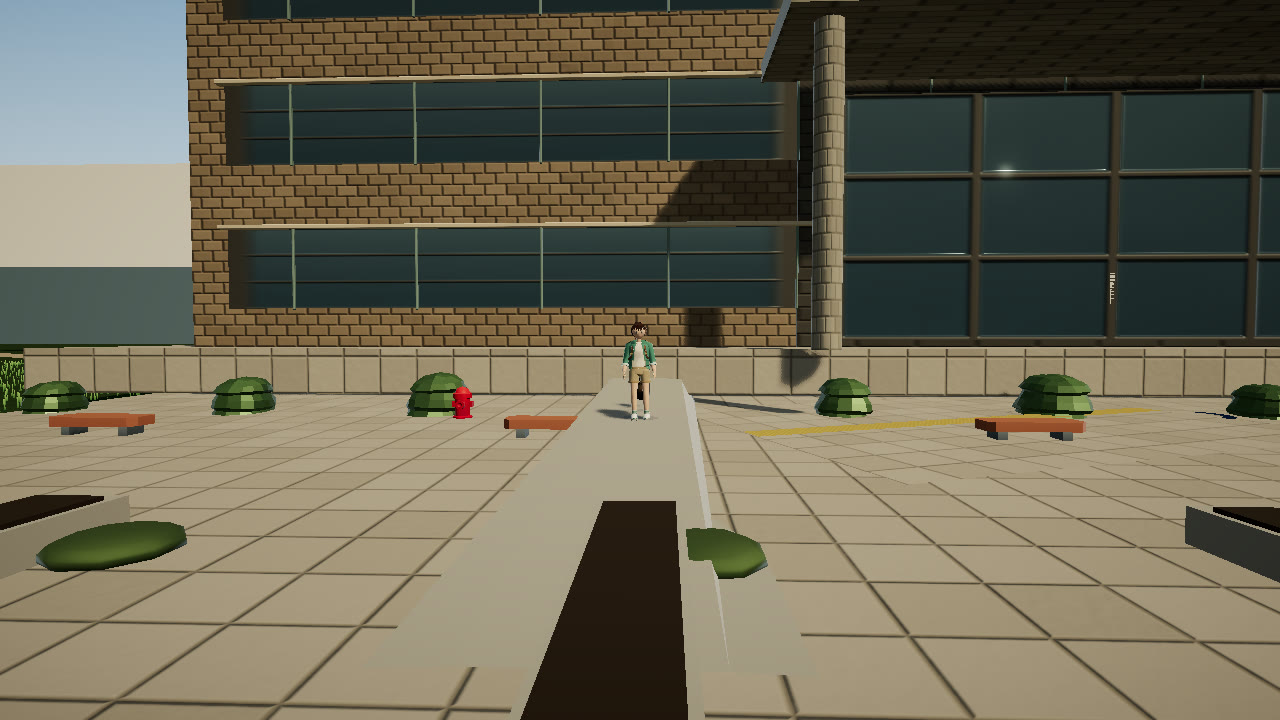
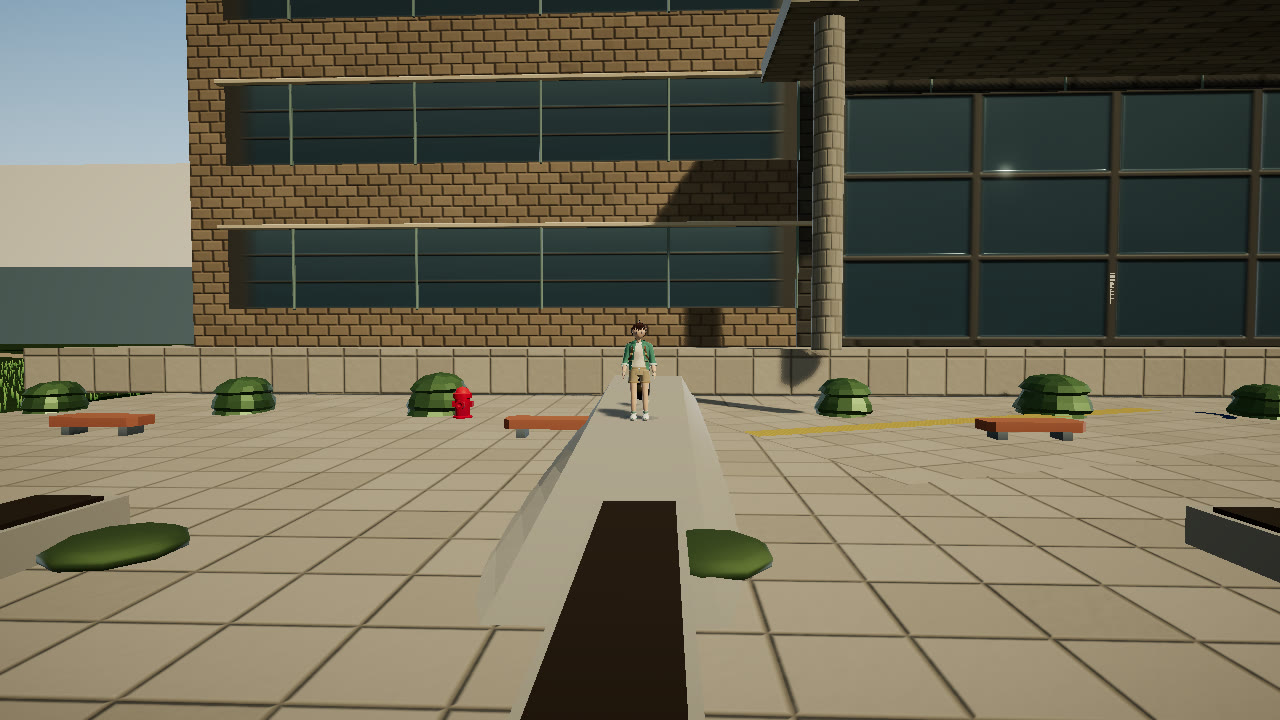
Build the library ramp on the same surface the player walks.
Each vertex uses the plaza elevation at that point plus the ramp lift, so the deck ends and the skirt midpoints no longer float off the mesh.

diff --git a/src/game/world-data/library-ramp.ts b/src/game/world-data/library-ramp.ts
@@ -1,4 +1,4 @@
-import { AXIS } from "./axis.ts";
+import { sampleGroundElevation } from "./elevation.ts";
 import { LIBRARY } from "./landmarks.ts";
 
 /**
@@ -31,29 +31,51 @@ export function libraryRampLift(x: number, z: number): number {
 
 type Vec3 = [number, number, number];
 
-/** Local triangles. +Z is the low south end, -Z is the high north end. */
+/** World-space samples. Each vertex sits on terrainHeight. */
+export function libraryRampSamples(): Vec3[][] {
+  const { x, z, length, width, skirt } = LIBRARY_RAMP;
+  const halfL = length / 2;
+  const halfW = width / 2;
+  const xs = [x - halfW - skirt, x - halfW - skirt / 2, x - halfW, x, x + halfW, x + halfW + skirt / 2, x + halfW + skirt];
+  const zs: number[] = [];
+  for (let dz = -halfL; dz <= halfL + 1e-6; dz += 1) zs.push(z + dz);
+  return zs.map((wz) =>
+    xs.map((wx): Vec3 => [wx, sampleGroundElevation(wx, wz) + libraryRampLift(wx, wz), wz]),
+  );
+}
+
+/** Triangles of the same surface the player walks. Normals point up. */
 export function libraryRampTriangles(): Vec3[][] {
-  const { width, length, rise, skirt, lip } = LIBRARY_RAMP;
-  const hw = width / 2;
-  const hl = length / 2;
-  const sw: Vec3 = [-hw, lip, hl];
-  const se: Vec3 = [hw, lip, hl];
-  const nw: Vec3 = [-hw, rise, -hl];
-  const ne: Vec3 = [hw, rise, -hl];
-  const osw: Vec3 = [-hw - skirt, 0, hl];
-  const ose: Vec3 = [hw + skirt, 0, hl];
-  const onw: Vec3 = [-hw - skirt, 0, -hl];
-  const one: Vec3 = [hw + skirt, 0, -hl];
-  const floorW: Vec3 = [-hw, 0, -hl];
-  const floorE: Vec3 = [hw, 0, -hl];
-  return [
-    [sw, se, ne],
-    [sw, ne, nw],
-    [osw, sw, nw],
-    [osw, nw, onw],
-    [se, ose, one],
-    [se, one, ne],
-    [nw, ne, floorE],
-    [nw, floorE, floorW],
-  ];
+  const rows = libraryRampSamples();
+  const triangles: Vec3[][] = [];
+  for (let j = 0; j < rows.length - 1; j++) {
+    for (let i = 0; i < rows[j].length - 1; i++) {
+      const p00 = rows[j][i];
+      const p10 = rows[j][i + 1];
+      const p01 = rows[j + 1][i];
+      const p11 = rows[j + 1][i + 1];
+      triangles.push([p00, p01, p11], [p00, p11, p10]);
+    }
+  }
+  return triangles;
+}
+
+/** Height of the rendered triangle that covers this point, if one does. */
+export function libraryRampMeshHeight(x: number, z: number): number | null {
+  for (const [a, b, c] of libraryRampTriangles()) {
+    const v0x = b[0] - a[0];
+    const v0z = b[2] - a[2];
+    const v1x = c[0] - a[0];
+    const v1z = c[2] - a[2];
+    const den = v0x * v1z - v1x * v0z;
+    if (Math.abs(den) < 1e-8) continue;
+    const v2x = x - a[0];
+    const v2z = z - a[2];
+    const bv = (v2x * v1z - v1x * v2z) / den;
+    const bw = (v0x * v2z - v2x * v0z) / den;
+    const bu = 1 - bv - bw;
+    if (bu < -1e-4 || bv < -1e-4 || bw < -1e-4) continue;
+    return bu * a[1] + bv * b[1] + bw * c[1];
+  }
+  return null;
 }

diff --git a/src/game/world/Props.tsx b/src/game/world/Props.tsx
@@ -2,7 +2,7 @@ import { useEffect, useLayoutEffect, useMemo, useRef, type JSX } from "react";
 import * as THREE from "three";
 import { quality } from "../quality";
 import { sampleGroundElevation } from "../world-data/elevation.ts";
-import { LIBRARY_RAMP, libraryRampTriangles } from "../world-data/library-ramp.ts";
+import { libraryRampTriangles } from "../world-data/library-ramp.ts";
 import { PROPS, type PropInstance, type PropKind } from "../world-data/props.ts";
 import { VendorModel, type VendorInstance } from "./vendor";
 
@@ -135,9 +135,8 @@ function LibraryRampMesh() {
     return geo;
   }, []);
   useEffect(() => () => geometry.dispose(), [geometry]);
-  const y = sampleGroundElevation(LIBRARY_RAMP.x, LIBRARY_RAMP.z);
   return (
-    <mesh geometry={geometry} position={[LIBRARY_RAMP.x, y, LIBRARY_RAMP.z]} receiveShadow>
+    <mesh geometry={geometry} receiveShadow>
       <meshStandardMaterial {...CONCRETE} />
     </mesh>
   );

diff --git a/docs/art/HANDOFF.md b/docs/art/HANDOFF.md
@@ -5,7 +5,7 @@
 
 ## 本輪（圖書館坡道）
 
-- 坡道北端高出南端約 1.05 m，人站在坡面上。北端在南牆外 0.4 m。坡度仍是 estimated。
+- 坡道北端高出南端約 1.05 m，人站在坡面上。網格和走路高度是同一個面。北端在南牆外 0.4 m。坡度仍是 estimated。
 - 沒有新增音效。化學館與肩肘膝留著。
 
 ## 本輪（理工區，化學館）
